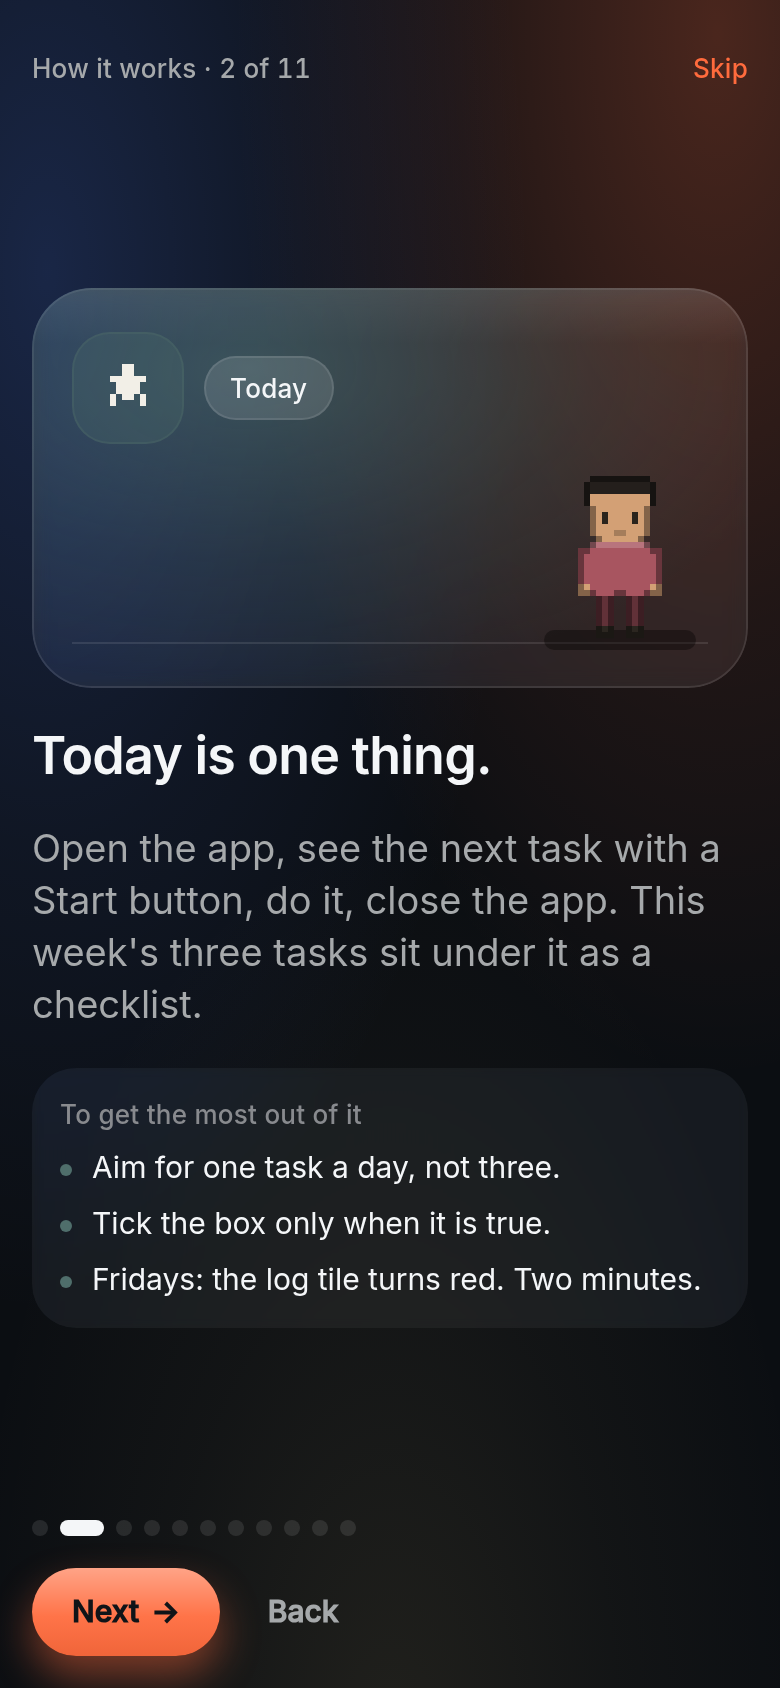
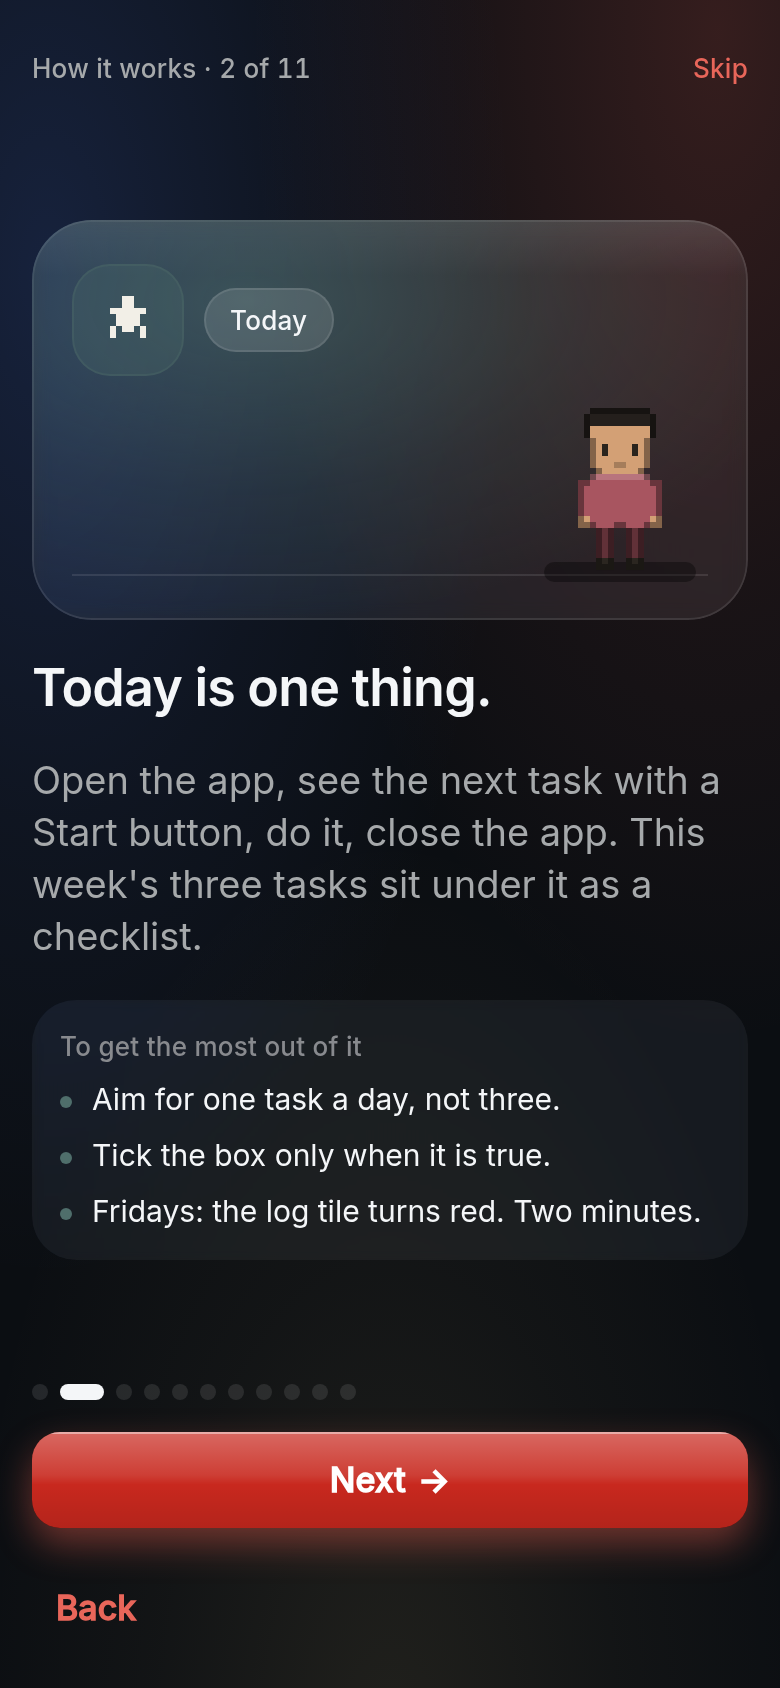
The tarp red back, and buttons the way the big apps draw them
The ember and its dark-text pill read as machine-made. The accent is
the brand's red again: #BE241B by day, lifted to #E8665A as text by
night and cut to #C8281E as a fill so white clears it. The hall's warm
light is the same red at low alpha. Buttons are rounded rectangles now,
48 high on 14-point corners, bold white text on the red, a specular
light across the top half with a hairline of light on the top edge and
a little shade at the foot, and a cast in their own colour; the hero
action on Today, on the road and in the guide stretches to its row.
Secondary is raised glass with ink text; ghost is red text, the plain
style for Cancel, Skip and Back. DESIGN.md records the button and lists
the orange pill among the anti-references.

Claude-Session: https://claude.ai/code/session_01SDvkqNwgttwVgCmKyx8Duu

diff --git a/packages/ui/src/Button.tsx b/packages/ui/src/Button.tsx
@@ -1,23 +1,22 @@
 /**
- * The button, with the site's press feel.
+ * The button, the way the apps people already trust draw it: a rounded
+ * rectangle (14 on the corners, never a pill), 48 high, bold white text
+ * on the brand's red, a specular light across the top half so it reads
+ * as lacquer, and a soft cast in its own colour. Secondary is a pane of
+ * raised glass with ink text; ghost is red text and nothing else, the
+ * "plain" style every iOS sheet uses for Cancel and Skip.
  *
- * A control answers before it is pressed: hover (pointer devices) lifts
- * it 1px, the press puts it down 2px over 100ms, the release settles back
- * with no bounce. A button is pressed all day.
- *
- * Shape: a pill, every size, on glass.
- *   primary    ember, lit from the top, ink text (never white on ember)
- *   secondary  raised glass, ink text
- *   ghost      no fill, muted text
- * Disabled is opacity .5 with no colour change; heights 36 / 44 / 52, and
- * the small one reaches 44 through its slop.
+ * Press feel: down 2px over 100ms the instant the finger lands, back up
+ * on release with no bounce. Disabled is opacity .5 with no colour
+ * change; heights 36 / 48 / 54, and the small one reaches 44 through its
+ * slop. `block` stretches it to the row, the way a hero action sits.
  */
 import type { ReactNode } from "react";
 import { Pressable, View, type ViewStyle } from "react-native";
 import Animated, { useAnimatedStyle, useSharedValue, withTiming, Easing } from "react-native-reanimated";
 import { LinearGradient } from "expo-linear-gradient";
 import { Body } from "./Text";
-import { curve, ms, radius, shell } from "./tokens";
+import { curve, ms, shell } from "./tokens";
 import { alpha, scheme } from "./theme";
 
 type Variant = "primary" | "secondary" | "ghost";
@@ -30,6 +29,7 @@ export function Button({
   disabled = false,
   arrow = false,
   size = "md",
+  block = false,
   style,
   accessibilityLabel,
   testID,
@@ -43,6 +43,8 @@ export function Button({
   /** Appends the → which leans 3px on hover/press. */
   arrow?: boolean;
   size?: "sm" | "md" | "lg";
+  /** Stretch to the row: the one action a card is for. */
+  block?: boolean;
   style?: ViewStyle;
   accessibilityLabel?: string;
   testID?: string;
@@ -65,15 +67,21 @@ export function Button({
     dx.value = withTiming(3, { duration: ms.release, easing: Easing.bezier(...curve.out) });
   };
 
-  const pad = size === "sm" ? { minHeight: 36, paddingHorizontal: 14 } : size === "lg" ? { minHeight: 52, paddingHorizontal: 28 } : { minHeight: 44, paddingHorizontal: 20 };
+  const geometry = size === "sm" ? { minHeight: 36, paddingHorizontal: 14, radius: 10 } : size === "lg" ? { minHeight: 54, paddingHorizontal: 24, radius: 16 } : { minHeight: 48, paddingHorizontal: 20, radius: 14 };
   const look: ViewStyle =
     variant === "primary"
       ? { backgroundColor: shell.accentFill }
       : variant === "secondary"
         ? { backgroundColor: onDark ? "rgba(244,246,248,0.14)" : alpha.raisedFill(), borderWidth: 1, borderColor: onDark ? "rgba(244,246,248,0.16)" : alpha.hairline() }
         : { backgroundColor: "transparent", paddingHorizontal: size === "sm" ? 8 : 12 };
-  const textTone: "onAccent" | "paper" | "paperQuiet" | "ink" | "muted" = variant === "primary" ? "onAccent" : onDark ? (variant === "ghost" ? "paperQuiet" : "paper") : variant === "ghost" ? "muted" : "ink";
-  const textColor = textTone === "onAccent" ? shell.onAccent : undefined;
+  const color = variant === "primary" ? shell.onAccent : variant === "secondary" ? (onDark ? "#F4F6F8" : shell.ink) : onDark ? "rgba(244,246,248,0.8)" : shell.accent;
+  const fontSize = size === "sm" ? 15 : 17;
+
+  const label = (
+    <Body size="sm" medium style={{ color, fontWeight: "600", fontSize, lineHeight: fontSize + 6 }}>
+      {children}
+    </Body>
+  );
 
   return (
     <Pressable
@@ -88,15 +96,15 @@ export function Button({
       accessibilityLabel={accessibilityLabel}
       accessibilityState={{ disabled }}
       testID={testID}
-      style={{ alignSelf: "flex-start", opacity: disabled ? 0.5 : 1 }}
+      style={{ alignSelf: block ? "stretch" : "flex-start", opacity: disabled ? 0.5 : 1 }}
     >
       <Animated.View
         style={[
-          { borderRadius: radius.full },
+          { borderRadius: geometry.radius },
           variant === "primary" && {
-            shadowColor: dark ? "rgba(255,107,61,0.45)" : "rgba(242,97,63,0.35)",
-            shadowOffset: { width: 0, height: 10 },
-            shadowRadius: 20,
+            shadowColor: dark ? "rgba(224,91,76,0.45)" : "rgba(190,36,27,0.32)",
+            shadowOffset: { width: 0, height: 8 },
+            shadowRadius: 18,
             shadowOpacity: 1,
             elevation: 4,
           },
@@ -104,19 +112,20 @@ export function Button({
           style,
         ]}
       >
-        <View style={[{ borderRadius: radius.full, overflow: "hidden", justifyContent: "center", alignItems: "center", flexDirection: "row", gap: 6 }, pad, look]}>
-          {/* the light on the top half: lacquer, not plastic */}
+        <View style={[{ borderRadius: geometry.radius, overflow: "hidden", justifyContent: "center", alignItems: "center", flexDirection: "row", gap: 6, minHeight: geometry.minHeight, paddingHorizontal: geometry.paddingHorizontal }, look]}>
+          {/* the specular: light across the top half, a hairline of light on the top edge, a little shade at the foot */}
           {variant === "primary" ? (
-            <LinearGradient pointerEvents="none" colors={["rgba(255,255,255,0.38)", "rgba(255,255,255,0.06)", "rgba(0,0,0,0.06)"]} locations={[0, 0.55, 1]} style={{ position: "absolute", left: 0, right: 0, top: 0, bottom: 0 }} />
+            <>
+              <LinearGradient pointerEvents="none" colors={["rgba(255,255,255,0.30)", "rgba(255,255,255,0.10)", "rgba(255,255,255,0)", "rgba(0,0,0,0.10)"]} locations={[0, 0.45, 0.55, 1]} style={{ position: "absolute", left: 0, right: 0, top: 0, bottom: 0 }} />
+              <View pointerEvents="none" style={{ position: "absolute", left: 1, right: 1, top: 0, height: 1, backgroundColor: "rgba(255,255,255,0.45)" }} />
+            </>
           ) : variant === "secondary" ? (
             <LinearGradient pointerEvents="none" colors={[dark ? "rgba(255,255,255,0.10)" : "rgba(255,255,255,0.9)", "rgba(255,255,255,0)"]} style={{ position: "absolute", left: 0, right: 0, top: 0, height: "55%" }} />
           ) : null}
-          <Body size="sm" medium tone={textTone === "onAccent" ? "ink" : textTone} style={textColor ? { color: textColor, fontWeight: "600" } : { fontWeight: "600" }}>
-            {children}
-          </Body>
+          {label}
           {arrow && (
             <Animated.View style={lean}>
-              <Body size="sm" medium tone={textTone === "onAccent" ? "ink" : textTone} style={textColor ? { color: textColor, fontWeight: "600" } : { fontWeight: "600" }}>
+              <Body size="sm" medium style={{ color, fontWeight: "600", fontSize, lineHeight: fontSize + 6 }}>
                 →
               </Body>
             </Animated.View>

diff --git a/apps/mobile/src/app/guide.tsx b/apps/mobile/src/app/guide.tsx
@@ -10,7 +10,7 @@ import { useRef, useState } from "react";
 import { Pressable, ScrollView, View, useWindowDimensions, type NativeScrollEvent, type NativeSyntheticEvent } from "react-native";
 import Animated, { Easing, useAnimatedStyle, useSharedValue, withTiming } from "react-native-reanimated";
 import { useLocalSearchParams, useRouter, type Href } from "expo-router";
-import { Body, Button, ButtonRow, Display, Glow, GlyphTile, Keeper, Plate, Spec, alpha, radius, shell, useLayout } from "@founderfloor/ui";
+import { Body, Button, Display, Glow, GlyphTile, Keeper, Plate, Spec, alpha, radius, shell, useLayout } from "@founderfloor/ui";
 import { useFounder } from "../lib/store";
 import { PAGES } from "../lib/guidePages";
 import { RECEPTIONIST } from "../lib/mock";
@@ -104,16 +104,16 @@ export default function Guide() {
             <Dot key={k} on={k === i} onPress={() => go(k)} label={`Page ${k + 1}`} />
           ))}
         </View>
-        <ButtonRow>
-          <Button arrow onPress={() => (i + 1 < PAGES.length ? go(i + 1) : done())}>
-            {i + 1 < PAGES.length ? "Next" : "Start"}
-          </Button>
-          {i > 0 ? (
+        <Button block arrow onPress={() => (i + 1 < PAGES.length ? go(i + 1) : done())}>
+          {i + 1 < PAGES.length ? "Next" : "Start"}
+        </Button>
+        {i > 0 ? (
+          <View style={{ alignItems: "center" }}>
             <Button variant="ghost" onPress={() => go(i - 1)}>
               Back
             </Button>
-          ) : null}
-        </ButtonRow>
+          </View>
+        ) : null}
       </View>
     </View>
   );

diff --git a/packages/ui/src/Ground.tsx b/packages/ui/src/Ground.tsx
@@ -17,12 +17,12 @@ export type Light = { x: number; y: number; r: number; color: string; alpha: num
 export function hallLights(dark: boolean): Light[] {
   return dark
     ? [
-        { x: 0.92, y: 0.02, r: 0.62, color: "#FF6B3D", alpha: 0.26 },
-        { x: 0.06, y: 0.16, r: 0.62, color: "#4C7DFF", alpha: 0.22 },
+        { x: 0.92, y: 0.02, r: 0.6, color: "#E05B4C", alpha: 0.2 },
+        { x: 0.06, y: 0.16, r: 0.6, color: "#4C7DFF", alpha: 0.18 },
         { x: 0.5, y: 1.04, r: 0.55, color: "#E4C77A", alpha: 0.10 },
       ]
     : [
-        { x: 0.92, y: 0.02, r: 0.6, color: "#FF8A5B", alpha: 0.22 },
+        { x: 0.92, y: 0.02, r: 0.6, color: "#E8836F", alpha: 0.18 },
         { x: 0.06, y: 0.16, r: 0.6, color: "#7FA3FF", alpha: 0.22 },
         { x: 0.5, y: 1.04, r: 0.5, color: "#E4C77A", alpha: 0.16 },
       ];

diff --git a/apps/mobile/src/app/(tabs)/today.tsx b/apps/mobile/src/app/(tabs)/today.tsx
@@ -86,7 +86,7 @@ export default function Today() {
                     The desk reads the week back and says what to fix.
                   </Body>
                 )}
-                <Button arrow onPress={() => { if (useTour.getState().active) return; if (!plan) router.push("/welcome" as Href); else if (next) openTask(next.i); else router.push({ pathname: "/review", params: { week: String(wk) } } as Href); }}>
+                <Button block arrow onPress={() => { if (useTour.getState().active) return; if (!plan) router.push("/welcome" as Href); else if (next) openTask(next.i); else router.push({ pathname: "/review", params: { week: String(wk) } } as Href); }}>
                   {!plan ? "Answer the questions" : next ? "Start" : "Read the week back"}
                 </Button>
               </View>

diff --git a/packages/ui/src/tokens.ts b/packages/ui/src/tokens.ts
@@ -28,8 +28,8 @@ export const shell: Record<ShellKey, string> = {
   accent: "#BE241B", // tarp — CTAs, live dots (on paper)
   accentLift: "#E05B4C", // tarp-lift — the accent ON DARK grounds only
   accentSoft: "#FBE1DD", // tarp-wash
-  accentFill: "#F2613F", // the accent as a fill: ember, under ink text in both schemes
-  onAccent: "#101418", // the text on an ember fill: ink, never white (6.5:1 by night, 5.8:1 by day)
+  accentFill: "#BE241B", // the accent as a fill under white text: the tarp red by day, a shade deeper by night (5.6:1)
+  onAccent: "#FFFFFF", // the text on the red: white, bold
   gold: "#B18C39", // brass — membership fills/dots/borders only
   goldDeep: "#775800", // brass-deep — membership as TEXT
   fountain: "#207582", // WAYFINDING ONLY — input focus

diff --git a/packages/ui/src/theme.ts b/packages/ui/src/theme.ts
@@ -24,8 +24,8 @@ export const LIGHT: Record<ShellKey, string> = {
   accent: "#BE241B",
   accentLift: "#E05B4C",
   accentSoft: "#FDE4DC",
-  accentFill: "#F2613F",
-  onAccent: "#101418",
+  accentFill: "#BE241B",
+  onAccent: "#FFFFFF",
   gold: "#B18C39",
   goldDeep: "#775800",
   fountain: "#207582",
@@ -42,11 +42,11 @@ export const DARK: Record<ShellKey, string> = {
   strong: "#C9CFD5",
   ink: "#F4F6F8",
   blackout: "#05070A",
-  accent: "#FF6B3D",
-  accentLift: "#FF8A5B",
-  accentSoft: "#3A2118",
-  accentFill: "#FF6B3D",
-  onAccent: "#101418",
+  accent: "#E8665A",
+  accentLift: "#F0806F",
+  accentSoft: "#3A1F1C",
+  accentFill: "#C8281E",
+  onAccent: "#FFFFFF",
   gold: "#E4C77A",
   goldDeep: "#E4C77A",
   fountain: "#6FD3E0",

diff --git a/apps/mobile/src/components/Road.tsx b/apps/mobile/src/components/Road.tsx
@@ -57,11 +57,9 @@ export function Road() {
                     <Sheen strength={0.35} reach={0.4} />
                     <Body size="sm">{s.child}</Body>
                     <Spec tone="muted">{s.why}</Spec>
-                    <View style={{ flexDirection: "row" }}>
-                      <Button size="sm" arrow onPress={() => router.push(s.route as Href)}>
-                        {s.go}
-                      </Button>
-                    </View>
+                    <Button block arrow onPress={() => router.push(s.route as Href)}>
+                      {s.go}
+                    </Button>
                   </View>
                 ) : null}
               </View>

diff --git a/DESIGN.md b/DESIGN.md
@@ -26,7 +26,7 @@ The palette is a ground, one glass material at three strengths, three text steps
 | ink | #F4F6F8 | #101418 | Primary text. |
 | muted | ink at 64% | #5B626A | Secondary text. 7:1 dark, 5.6:1 light. |
 | faint | ink at 50% | #646B73 | Labels and captions. 4.8:1 dark, 4.9:1 light. Never below. |
-| accent, ember | #FF6B3D | #BE241B as text, #F2613F as fill | The one accent: primary action, current selection, the live dot. Never decoration. Text on an ember fill is ink, not white (6.5:1). |
+| accent, the tarp red | #E8665A as text, #C8281E as fill | #BE241B | The one accent, the brand's red: primary action, current selection, the live dot. Never decoration. Text on the red is white, bold (5.6:1 by night, 6.1:1 by day). |
 | gold | #E4C77A | #B18C39 | Membership only. |
 | verify | #4CD08A | #298646 | Done, online, verified. |
 | fountain | #6FD3E0 | #207582 | Focus only. |
@@ -35,7 +35,7 @@ Room and stop colours (the six rooms on the map, the seven stops on the road) ke
 
 ## Lights
 
-Every screen ground carries the hall's lights: two or three large, soft radial glows (the ember and a cool blue, at low alpha) fixed near the top of the screen, drawn once in the root layout behind every page. They are what the glass refracts; without them glass is grey. They never move except in the opening animation, and they respect Reduce Motion.
+Every screen ground carries the hall's lights: two or three large, soft radial glows (the tarp red, a cool blue and a little brass, at low alpha) fixed near the top of the screen, drawn once in the root layout behind every page. They are what the glass refracts; without them glass is grey. They never move except in the opening animation, and they respect Reduce Motion.
 
 ## Glass
 
@@ -43,7 +43,11 @@ One material, `Plate`, with tones: `panel` (the card), `glass` (the bar and the 
 
 Rings, not borders: a card that is lit or done gets a 1.5 px ring in its colour on the same rounded outline.
 
-No clipped corner. No bevel. Nothing square: radii are 10 / 14 / 18 / 22 / 30 and the pill.
+No clipped corner. No bevel. Nothing square: radii are 10 / 14 / 18 / 22 / 30. Pills are for chips and the tab bar only.
+
+## Buttons
+
+The way the apps people already trust draw them. Primary: a rounded rectangle (14), 48 high, the red fill, white 600 text, a specular light across the top half with a hairline of light on the top edge and a little shade at the foot, a soft cast in its own colour; the one action a card is for stretches to the row. Secondary: raised glass with a hairline, ink text. Ghost: red text and nothing else, the plain style for Cancel, Skip and Back. Never a pill, never dark text on the accent, never a gradient that changes hue.
 
 ## Type
 
@@ -78,4 +82,4 @@ Product motion: 150 to 250 ms, state only. Enter with a strong ease-out from an 
 
 ## Anti-references
 
-The first world's badge material, mono labels and awning stripes. Purple-to-blue gradient heroes. Neon on black. Glass as decoration on every element (the composer, the bar and cards are glass; text and buttons are not). Emoji as icons.
+The first world's badge material, mono labels and awning stripes. Purple-to-blue gradient heroes. Orange-to-coral pills with dark text. Neon on black. Glass as decoration on every element (the composer, the bar and cards are glass; text and buttons are not). Emoji as icons.
